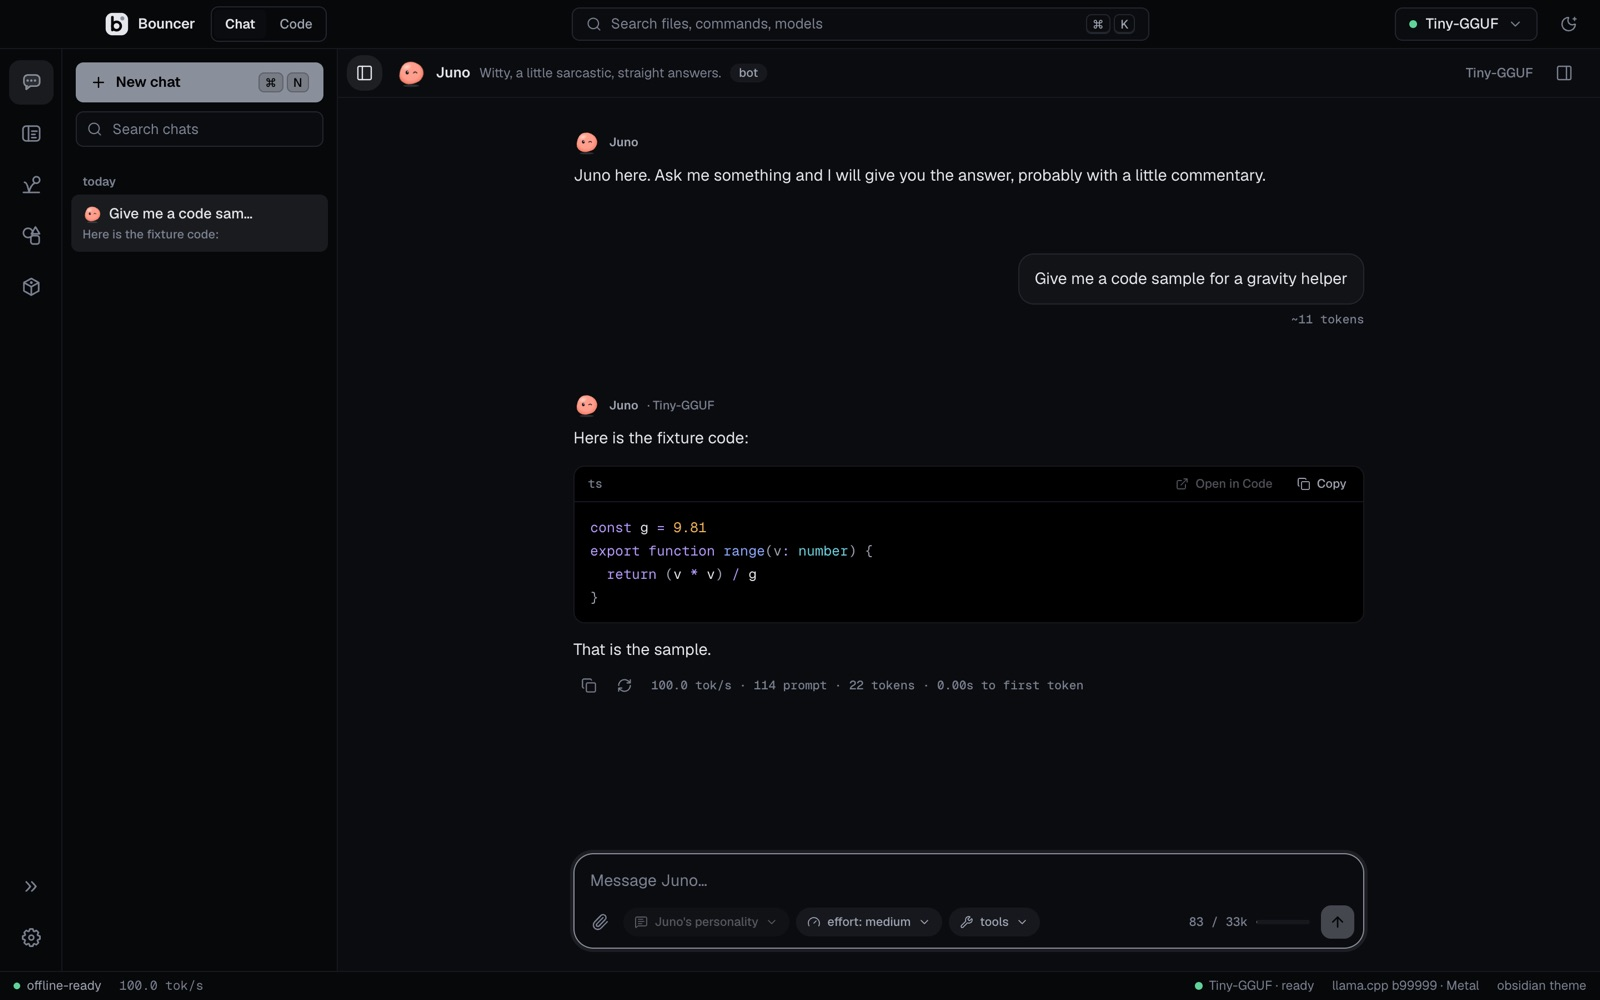
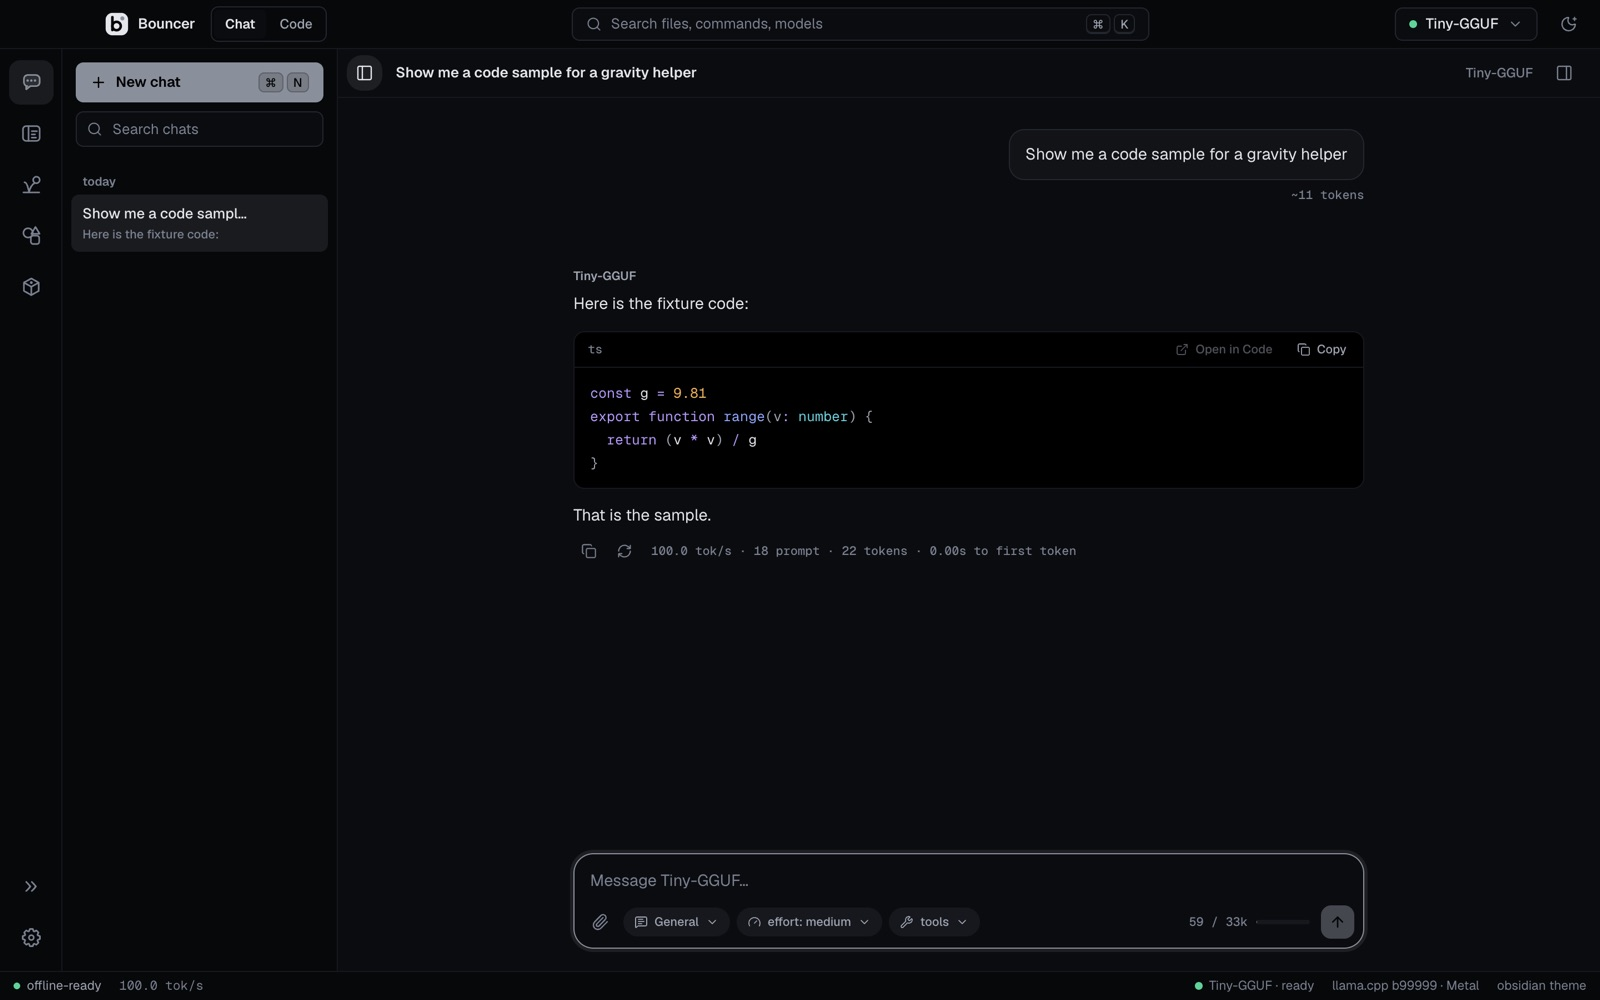
Website: plain-chat hero; Bouncer Code wording; Rebound agents chat in Rebound

diff --git a/index.html b/index.html
@@ -71,7 +71,7 @@
         <div>
           <span class="badge" id="release-badge"><span class="dot" aria-hidden="true"></span><span data-release-label>prerelease · coming soon</span></span>
           <h1 id="hero-title">Your models. Your machine. Your bots.</h1>
-          <p class="lede">Bouncer runs open models on your own computer. Chat with them, let a coding agent work in your folders, and make bots with their own names and faces.</p>
+          <p class="lede">Bouncer runs open models on your own computer. Chat with them, let Bouncer Code work in your folders, and make Rebound agents with their own names and faces.</p>
         </div>
 
         <div class="hero-actions">
@@ -82,7 +82,7 @@
         </div>
 
         <figure class="hero-shot" style="margin: 0">
-          <img src="assets/screens/hero-obsidian.jpg" width="1600" height="1000" alt="Bouncer Chat in the obsidian theme: a bot named Juno answers in a code block, with the effort and tools controls under the composer" fetchpriority="high" />
+          <img src="assets/screens/hero-obsidian.jpg" width="1600" height="1000" alt="Bouncer Chat in the obsidian theme: a local model answers with a code block, with the effort and tools controls under the composer" fetchpriority="high" />
         </figure>
       </div>
     </section>
@@ -116,7 +116,7 @@
         <div class="feature is-flip">
           <div class="copy-col">
             <span class="kicker">bouncer code</span>
-            <h3 style="margin-top: 8px; font-size: 1.5rem">A coding agent that asks before it acts.</h3>
+            <h3 style="margin-top: 8px; font-size: 1.5rem">Bouncer Code asks before it acts.</h3>
             <p>Point a model at a folder. Pick how much it may do with Shift+Tab, and read each change before you approve it.</p>
             <ul>
               <li>modes: plan, manual, accept edits and autopilot</li>
@@ -126,7 +126,7 @@
           </div>
           <div>
             <figure class="shot">
-              <img src="assets/screens/code-light.jpg" width="1600" height="1000" loading="lazy" alt="Bouncer Code in the light theme, with the agent working inside a project folder" />
+              <img src="assets/screens/code-light.jpg" width="1600" height="1000" loading="lazy" alt="Bouncer Code in the light theme, working inside a project folder" />
               <figcaption>code, light theme</figcaption>
             </figure>
             <figure class="shot" style="margin-top: 20px">
@@ -139,16 +139,16 @@
         <div class="feature">
           <div class="copy-col">
             <span class="kicker">bouncer ide</span>
-            <h3 style="margin-top: 8px; font-size: 1.5rem">A real editor, with the agent docked.</h3>
-            <p>A file tree, editor tabs, a terminal, search and git in one window. The agent sits beside your code, so you can ask about a file without switching apps.</p>
+            <h3 style="margin-top: 8px; font-size: 1.5rem">A real editor, with Bouncer Code beside it.</h3>
+            <p>A file tree, editor tabs, a terminal, search and git in one window. Bouncer Code sits beside your files and opens the folder you were working on, so you can ask about a file without switching apps.</p>
             <ul>
               <li>editor tabs and a terminal</li>
               <li>search and git</li>
-              <li>the coding agent docked next to your files</li>
+              <li>Bouncer Code docked next to your files</li>
             </ul>
           </div>
           <figure class="shot">
-            <img src="assets/screens/ide-obsidian.jpg" width="1600" height="1000" loading="lazy" alt="Bouncer IDE in the obsidian theme with file tree, editor and docked agent" />
+            <img src="assets/screens/ide-obsidian.jpg" width="1600" height="1000" loading="lazy" alt="Bouncer IDE in the obsidian theme with file tree, editor and Bouncer Code beside it" />
             <figcaption>ide, obsidian theme</figcaption>
           </figure>
         </div>
@@ -195,8 +195,8 @@
       <div class="wrap">
         <div class="section-head">
           <span class="eyebrow">rebound</span>
-          <h2 id="rebound-title">Make your own bots.</h2>
-          <p>A bot is a name, a personality and a face. Give it instructions, pick its eyes and chat with it like any other model.</p>
+          <h2 id="rebound-title">Make your own Rebound agents.</h2>
+          <p>Each one has a name, a personality and a face. Give it instructions, pick its eyes, and chat with it in Rebound. Its chats live with it, separate from Bouncer Chat.</p>
         </div>
 
         <div class="bots" aria-label="starter bots">
